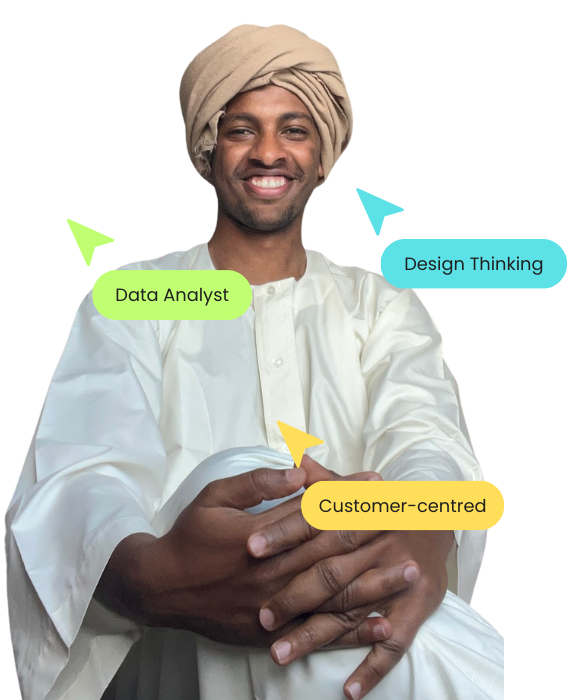
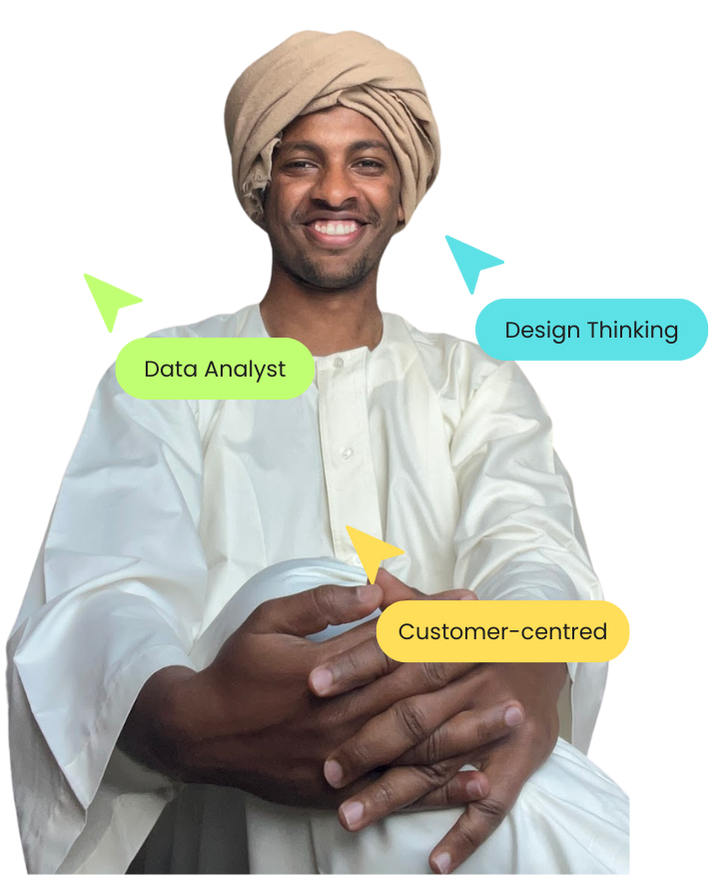
finishing the design on canva and the hero section

diff --git a/templates/resume/resume.html b/templates/resume/resume.html
@@ -2,7 +2,7 @@
 {% load static tailwind_tags %}
 
 <!DOCTYPE html>
-<html>
+<html dir="ltr">
 <head>
     <title>Product Manager</title>
     
@@ -25,33 +25,39 @@
         </nav>
 
         <!--Hero Section-->
-        <div class="grid items-center pt-5 gap-8 grid-cols-1
+        <div class="grid items-center py-5 gap-8 grid-cols-1
         lg:grid-cols-2 align-middle">
 
             <!-- This is the Photo section -->
-            <div class="order-2 lg:order-1">
+            <div class="flex order-2 lg:order-1 h-full px-7 bg-[#FFF8C1] rounded-3xl lg:rounded-none lg:rounded-s-3xl items-end">
                 <img class="mx-auto" src="{% static 'img/pm.png' %}" alt="Product Manager">
             </div>
 
-            <div class="order-1 lg:order-2 grid grid-cols-1 text-center justify-between place-items-center lg:place-items-start lg:text-left  space-y-5">
 
-                <h1 style="font-family: var(--brand-font-bold)"
-                class="text-8xl lg:text-6xl">
-                Leading the Way to Product Excellence
-                </h1>
 
-                <h3 style="font-family: var(--brand-font-light)" class="text-4xl lg:text-3xl">Proven track record of driving successful product and innovation with different prospective.</h3>
-                
+            <div class="flex order-1 lg:order-2
+            h-full bg-gradient-to-r from-[#FFF8C1] to-[#FFA9F9] bg-opacity-50 p-7 rounded-3xl lg:rounded-none lg:rounded-e-3xl items-center">
+                <div class="grid text-center justify-center align-center items-center place-items-center lg:place-items-start lg:text-left space-y-7">
+                    <h1 style="font-family: var(--brand-font-bold)"
+                    class="text-8xl lg:text-6xl">
+                    Leading the Way to Product Excellence
+                    </h1>
+    
+                    <h3 style="font-family: var(--brand-font-light)" class="text-4xl lg:text-3xl">Proven track record of driving successful product and innovation with different prospective.</h3>
+                    
+    
+                    <button class="bg-[#5CE1E6] w-[225px] rounded-full flex text-black p-1 items-center">
+                        <span id='contact' class='pl-2 text-4xl'>Hire Me!</span>
+                        <div class="ml-2 bg-black rounded-full p-1">
+                        <!-- Replace the arrow with your desired icon or SVG -->
+                        <img class="w-12" src="{% static 'svg/right-arrow.svg' %}" alt="arrow">
+                        </div>
+                    </button>
 
-                <button class="bg-[#5CE1E6] w-[225px] rounded-full flex text-black p-1 items-center">
-                    <span id='contact' class='pl-2 text-4xl'>Hire Me!</span>
-                    <div class="ml-2 bg-black rounded-full p-1">
-                    <!-- Replace the arrow with your desired icon or SVG -->
-                    <img class="w-12" src="{% static 'svg/right-arrow.svg' %}" alt="arrow">
-                    </div>
-                </button>
-
+                </div>
             </div>
+                
+            
         </div>
     </div>
 
@@ -65,6 +71,10 @@
         <img class="w-[80px]" src="{% static 'svg/sparkle.svg' %}" alt="">
         <h2>Develop</h2>
         <img class="w-[80px]" src="{% static 'svg/sparkle.svg' %}" alt="">
+    </div>
+
+    <div class="container mx-auto pt-12 lg:px-6">
+        
     </div>
 
 
